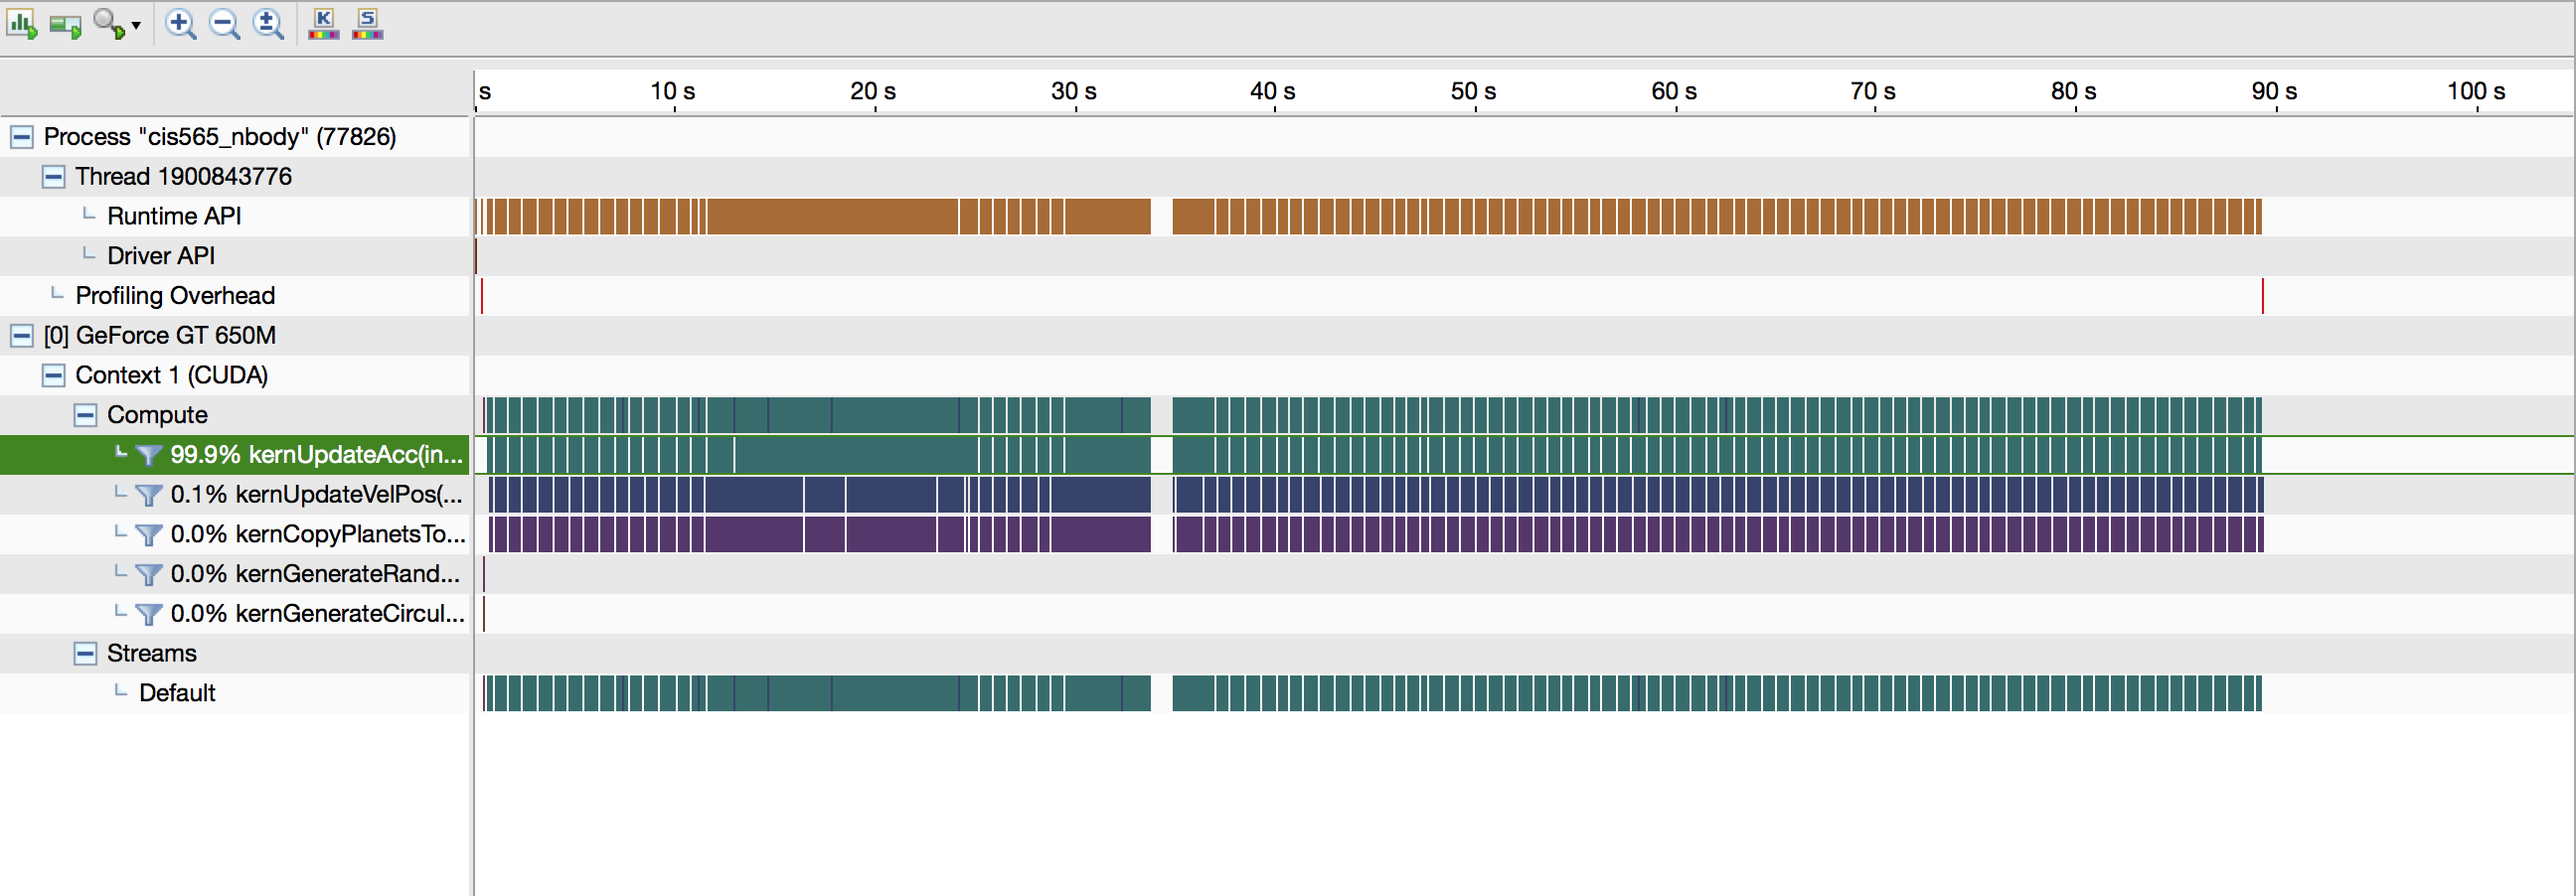
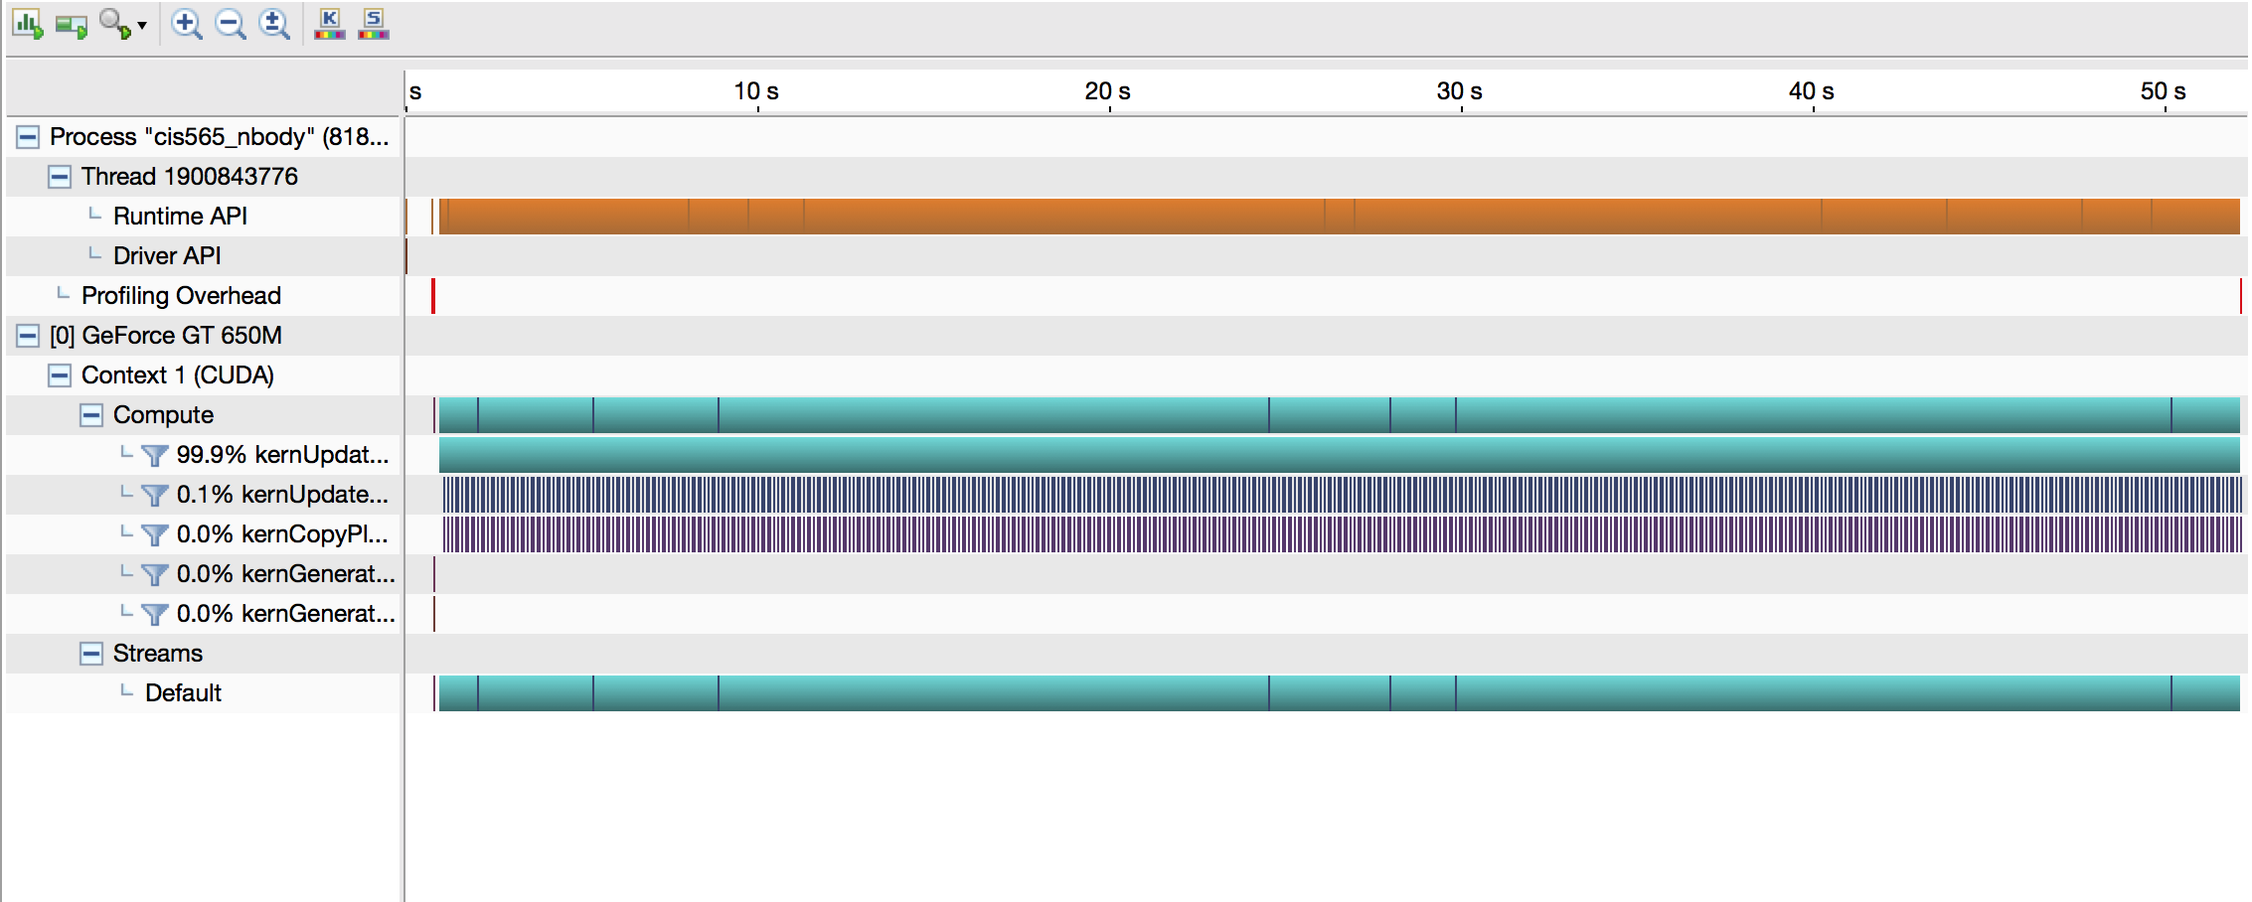
Updated the CMakeList.txt, removed -G -g line which improved the performance.

diff --git a/Project1-Part1/src/main.cpp b/Project1-Part1/src/main.cpp
@@ -14,7 +14,7 @@
 
 #define VISUALIZE 1
 
-const int N_FOR_VIS = 500;
+const int N_FOR_VIS = 5000;
 const float DT = 0.2f;
 
 /**
